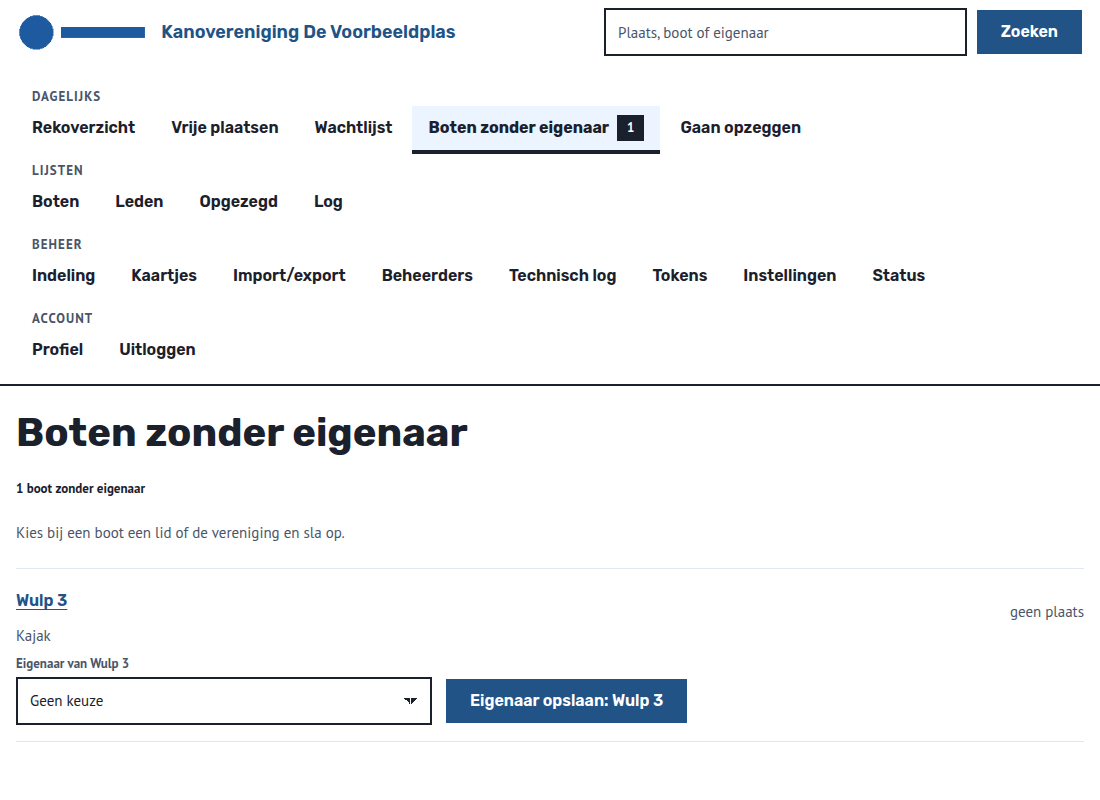
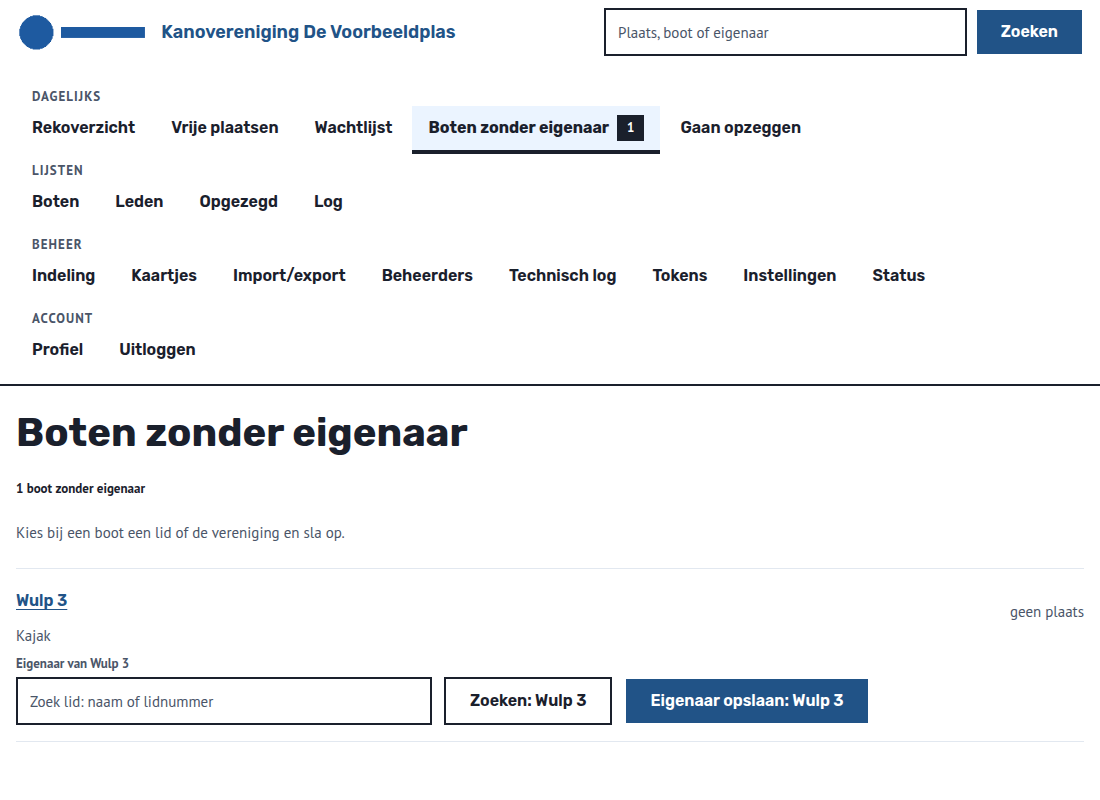
Release 1.3.0: CHANGELOG, bijwerken en schermafbeeldingen (#303); overlay v0.5.96
CHANGELOG en bijwerken.md voor 1.3.0. Schermafbeeldingen van de handleiding
opnieuw gemaakt na #295 en #298. Overlay: drie lessen uit de terugblikken
bij #298. Alleen documentatie, geen review nodig.

Claude-Session: https://claude.ai/code/session_01Dq19tw8kfJi9T5x7PuYf8y

Changed region(s): [[0.4018, 0.8438, 0.8036, 0.9062], [0.0309, 0.875, 0.1855, 0.9062]]

diff --git a/docs/PROJECT-OVERLAY.md b/docs/PROJECT-OVERLAY.md
@@ -2,7 +2,7 @@
 
 **Project:** botenloodsbeheer
 **Geldt voor:** alle agents in dit project
-**Versie overlay:** v0.5.95
+**Versie overlay:** v0.5.96
 **Beheer:** regie (hoofdsessie), na akkoord van de stakeholder
 **Status:** concept
 **Bijgewerkt:** 2026-11-17
@@ -219,6 +219,7 @@ De regie loopt deze lijst na bij elke agentopdracht: altijd het deel Algemeen, d
 - Een bouwer die stopt of wordt overgenomen, laat geen eigen compose-project achter; de opvolger ruimt het op met `down -v` en controleert met `docker ps -a`, `docker volume ls` en `docker network ls` (#154).
 - Een test op overloop gebruikt gegevens die breder zijn dan het venster, en de opdracht noemt hoe breed: op 360 px een rek van meer dan vier vakken en een bootnaam van meer dan 30 tekens. De bootsoort zonder plaatje in de seed is Supboard (#270).
 - Maakt een besluit in dezelfde ronde een CSS-regel overbodig, noem dan welke mutant daarna de bewaker is, en welke bestaande E2E-test de verwijderde regel bewaakte; de reviewer draait die test met de nieuwe bewakermutant (#270).
+- Versoepelt de wijziging een regel in de kern, noem dan elke andere route die op de oude weigering leunde (zoals de bezettingsimport), en eis per route een test met een geval binnen de nieuwe grens, met een mutant (#298).
 
 #### Review
 
@@ -313,6 +314,7 @@ De regie loopt deze lijst na bij elke agentopdracht: altijd het deel Algemeen, d
 - Een herstel dat een lijst herordent of afkapt, krijgt naast de schermtest een test op de functie zelf: lengte, hint en gekozen waarde in het herstelde geval (#295).
 - Een proef die bewijst dat iets niet verandert, toont eerst met hetzelfde verzoek en een geldige keuze dat het wel verandert (positieve controle) (#295).
 - Elke reviewer die zelf unittests draait, gebruikt een eigen `TEST_DB`, ook als de regie zegt dat ze de suite draait: een gedeelde `botenloods_test` verdween bij #295 midden in een run (#295).
+- Noem bij een regelnummer in een brief altijd het bestand (`app/domein/bezetting_csv.py:155`), en zeg bij een oordeel dat steunt op een mutant van een ander agent of het oordeel op die uitkomst mag wachten of statisch moet zijn (#298).
 
 #### E2E
 
@@ -340,6 +342,7 @@ De regie loopt deze lijst na bij elke agentopdracht: altijd het deel Algemeen, d
 - Een subagent wacht op een achtergrondrun met een `until grep -q`-lus op een eindregel in het uitvoerbestand, en telt het E2E-totaal met een script uit de losse `passed`-regels van `draai.sh`.
 - Een E2E-assert op een keuzelijst filtert op de eigen plaatscode; de seed heeft ook vrije plaatsen.
 - Een nieuwe foutroute in `draai.sh` toetst ook welke toestand het script achterlaat (integratiecontainer gestart, `secrets/api_token`), niet alleen dat het stopt.
+- Zet in de opdracht voor een E2E-test van een gegeven dat de stack niet meebrengt (zoals een oud-lid binnen de bewaartermijn): hoe de test dat gegeven maakt, of het de stack vervuilt, en welke `reknaam`-letter vrij is (alle letters a tot en met z zijn bezet; kies een groep van twee of drie letters) (#298).
 
 #### Migratie en database
 
@@ -520,6 +523,7 @@ Nog geen. Format: `/Users/reinoud/Projects/AI/Prompt Pack/00d. Generic Improveme
 
 | Versie | Datum | Wijziging | Reden |
 |--------|-------|-----------|-------|
+| v0.5.96 | 2026-11-17 | Drie regels: andere routes bij een versoepelde regel (Bouw); bestand bij een regelnummer en mutant van een ander agent (Review); gegeven dat de stack niet meebrengt (E2E); uit de terugblikken bij #298 | Lessen |
 | v0.5.95 | 2026-11-17 | Zes regels: zoekveld in plaats van keuzelijst, geldige keuze vervalt niet, afhankelijk criterium (Bouw); functietest bij afkappen, positieve controle, eigen TEST_DB voor elke reviewer (Review); uit de terugblikken bij #295 | Lessen |
 | v0.5.94 | 2026-11-17 | Zeven regels: besluiten van Design System nalezen, API-documentatie noemen, eigen testdatabase met sed-kopie (Bouw); heel ADR afzoeken, mutant met bewijsbestand, proef in de webcontainer (Review); veilige kant bij een veiligheidsgrens (Security en proxy); uit de terugblikken bij #295, #298 en #307 | Lessen |
 | v0.5.93 | 2026-11-17 | Zes regels: besluiten uit een ander issue, plek van een issuesectie, terugblik in een worktree (Algemeen); regex met letterlijke waarden, actionlint (Review); rechten van GITHUB_TOKEN per job (Security en proxy); uit de terugblikken bij #297, #298 en #300 | Lessen |

diff --git a/CHANGELOG.md b/CHANGELOG.md
@@ -2,6 +2,33 @@
 
 Per versie de wijzigingen, gelijk aan de releasenotes op GitHub (https://github.com/reinoud/botenloodsbeheer/releases). De nieuwste versie staat bovenaan.
 
+## 1.3.0 (2026-11-17)
+
+Versie met oud-leden als eigenaar en een SBOM per image (milestone "Oud-leden als eigenaar en SBOM"). Neemt ook twee zichtbare wijzigingen uit milestone 7 mee.
+
+**Images** (linux/amd64), gescand met trivy vóór de push:
+- `ghcr.io/reinoud/botenloods-app:1.3.0`
+- `ghcr.io/reinoud/botenloods-integratie:1.3.0`
+
+Ook beschikbaar onder de tags `1.3` en `latest`. Bij de release staat per image een SBOM in CycloneDX-formaat: `botenloods-app-1.3.0.cdx.json` en `botenloods-integratie-1.3.0.cdx.json` (#297).
+
+**Nieuw sinds 1.2.0**
+- Een boot van een oud-lid is vast te leggen en krijgt een plaats, maar geen clubplaats en geen plek op de wachtlijst. Een oud-lid van wie de opzegdatum hooguit 5 jaar geleden is, staat met de tag oud-lid in de keuze Eigenaar en op Leden. Daarbuiten is het oud-lid niet te kiezen en krijgt zijn boot geen nieuwe plaats; verplaatsen mag wel (#298).
+- De ledenimport neemt oud-leden op tot 5 jaar na hun opzegdatum. Voor oud-leden schrijft de applicatie geen bootaantal naar e-boekhouden (#298).
+- Een lid kiezen gaat met een zoekveld en een tussenstap, bij Nieuwe boot, Boot wijzigen, Boten zonder eigenaar en de bezettingsimport, in plaats van een lijst met ruim 200 namen (#295).
+- Per image een SBOM als bijlage bij de release (#297).
+
+**Gewijzigd**
+- De veiligheidsgrens van de ledenimport telt opgezegde en ongeldige records niet meer mee (#307).
+- De bezettingsimport en het koppelscherm blijven een oud-lid weigeren (#298).
+- Op de pagina van een plaats en in de zoekresultaten staat de tag oud-lid achter de naam (#268, #298).
+- De knop Zoeken in de kop toont op een smal scherm een vergrootglas (#275).
+- Testonderhoud: opruimen van E2E-gegevens en een slottest op vergrendelen (#278, #283, #300).
+
+**Bijwerken vanaf 1.2.0** (zie `documentatie/beheer/bijwerken.md`). Er is geen migratie; `docker-compose.yml` en `.env` zijn niet gewijzigd. Let op bij de eerste ledenimport na het bijwerken:
+- Oud-leden met een opzegdatum van hooguit 5 jaar geleden komen erbij, ook oud-leden zonder boot die eerder zijn verwijderd. Na 5 jaar ruimt de opschoning ze weer op.
+- Levert e-boekhouden `lid_sinds` of de opzegdatum niet als JJJJ-MM-DD, dan stopt de import met een 409 en blijven de leden ongewijzigd (#307).
+
 ## 1.2.0 (2026-11-15)
 
 Versie met schermverbeteringen en een leesbaar log na 1.1.0 (milestone "Schermen en log na v1.1.0").

diff --git a/documentatie/beheer/bijwerken.md b/documentatie/beheer/bijwerken.md
@@ -25,6 +25,8 @@ Migratie 0017 zet het logo in de database. Het logo in `huisstijl/logo.png` en d
 
 Versie 0.4.0 bevat migratie 0017 hierboven en migratie 0018. Migratie 0018 haalt adres, telefoon en e-mail van leden weg en het tokenrecht `persoonsgegevens`. Een actief token met alleen dat recht wordt ingetrokken, met een regel in het technische log; andere tokens verliezen alleen dat recht. De downgrade zet de kolommen leeg terug; de gegevens en het recht komen niet terug. `.env` kent nieuwe variabelen voor de koppeling met e-boekhouden (`EBOEKHOUDEN_USERNAME`, `EBOEKHOUDEN_CODE1`, `EBOEKHOUDEN_CODE2`, `BOOTAANTALLEN_SCHRIJVEN`), alleen nodig bij `LEDENBRON=eboekhouden` (`integratiecontainer.md`). `LOGO_BESTAND` kan uit `.env` weg.
 
+Versie 1.3.0 heeft geen migratie. De eerste ledenimport daarna neemt oud-leden op van wie de opzegdatum hooguit 5 jaar geleden is, ook oud-leden zonder boot die eerder zijn verwijderd. Levert de ledenbron `lid_sinds` of de opzegdatum niet als JJJJ-MM-DD, dan stopt de import met een 409 en blijven de leden ongewijzigd; kijk die eerste import daarom na.
+
 ## Tokens
 
 - Beheerders maken, wijzigen en trekken tokens in op het scherm Tokens (`/tokens`), ook persoonlijke tokens; zie de handleiding.
